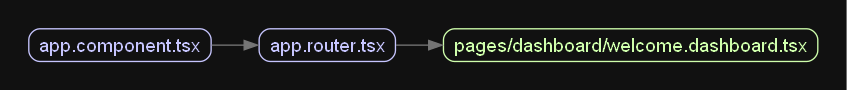
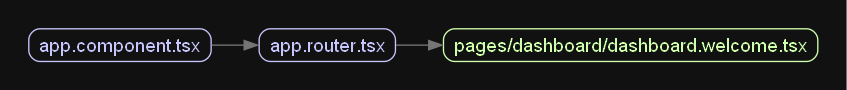
add app layout

Changed region(s): [[0.706, 0.4222, 0.9209, 0.5778]]

diff --git a/apps/react/src/app.router.tsx b/apps/react/src/app.router.tsx
@@ -1,10 +1,13 @@
+import { lazy } from "react";
 import { createBrowserRouter } from "react-router-dom";
-import { Welcome } from "./pages/dashboard/welcome.dashboard";
+import { Layout } from "./app.layout";
+//import Welcome from "./pages/dashboard/dashboard.welcome";
+const Welcome = lazy(() => import('./pages/dashboard/dashboard.welcome'));
 
 const routes = [
   {
     path: '/',
-    element: <Welcome />
+    element: <Layout module="dashboard" component={Welcome} />
   }
 ];
 

diff --git a/apps/react/src/app.layout.tsx b/apps/react/src/app.layout.tsx
@@ -1,0 +1,14 @@
+import { FC, Suspense } from "react";
+import { ContextProps } from "./types";
+
+interface IProps extends ContextProps {
+  component: FC<ContextProps>;
+}
+
+export function Layout({ component: Component, ...props }: IProps) {
+  return (
+    <Suspense fallback={'...loading'}>
+      <Component {...props} />
+    </Suspense>
+  );
+}

diff --git a/apps/react/src/pages/dashboard/dashboard.welcome.tsx b/apps/react/src/pages/dashboard/dashboard.welcome.tsx
@@ -1,0 +1,10 @@
+import { ContextProps } from "../../types";
+
+interface IProps extends ContextProps { }
+
+function Welcome(props: IProps) {
+  console.log(props);
+  return <>Welcome</>
+}
+
+export default Welcome;

diff --git a/apps/react/src/types/app.type.ts b/apps/react/src/types/app.type.ts
@@ -1,0 +1,6 @@
+export interface ContextProps {
+  module: string;
+  view?: string;
+  object?: string;
+  action?: string[];
+}

diff --git a/apps/react/src/types/index.ts b/apps/react/src/types/index.ts
@@ -1,0 +1,1 @@
+export * from './app.type';

diff --git a/docs/04_react/02_structure/005_add_app_layout.md b/docs/04_react/02_structure/005_add_app_layout.md
@@ -1,0 +1,76 @@
+# Add App Layout to Your Project
+
+1. **Navigate to the 'src' Directory:**
+
+   - Open your terminal.
+   - Change to the 'src' directory using the `cd` command:
+     ```bash
+     cd path/to/your/project/src
+     ```
+
+2. **Create 'app.layout.tsx':**
+
+   - Inside the 'src' directory, create a file named 'app.layout.tsx':
+
+     ```jsx
+     // src/app.layout.tsx
+     import { FC, Suspense } from 'react';
+     import { ContextProps } from './types';
+
+     interface IProps extends ContextProps {
+       component: FC<ContextProps>;
+     }
+
+     export function Layout({ component: Component, ...props }: IProps) {
+       return (
+         <Suspense fallback={'...loading'}>
+           <Component {...props} />
+         </Suspense>
+       );
+     }
+     ```
+
+3. **Import 'app.layout.tsx' to 'app.router.tsx':**
+
+   - Open the 'app.router.tsx' file.
+   - Import the 'Layout' component from 'app.layout.tsx':
+
+     ```jsx
+     // src/app.router.tsx
+     import { lazy } from 'react';
+     import { createBrowserRouter } from 'react-router-dom';
+     import { Layout } from './app.layout';
+     import Welcome from './pages/dashboard/dashboard.welcome';
+
+     const routes = [
+       {
+         path: '/',
+         element: <Welcome />,
+       },
+     ];
+
+     export const router = createBrowserRouter(routes);
+     ```
+
+4. **Update 'app.router.tsx' to Use 'Layout' Component:**
+
+   - In 'app.router.tsx', comment out the import of 'Welcome' and replace the 'element' property with the 'Layout' component:
+
+     ```jsx
+     // src/app.router.tsx
+     import { lazy } from 'react';
+     import { createBrowserRouter } from 'react-router-dom';
+     import { Layout } from './app.layout';
+     const Welcome = lazy(() => import('./pages/dashboard/dashboard.welcome'));
+
+     const routes = [
+       {
+         path: '/',
+         element: <Layout module='dashboard' component={Welcome} />,
+       },
+     ];
+
+     export const router = createBrowserRouter(routes);
+     ```
+
+These steps guide you through adding an 'App Layout' component to your project, introducing a suspense wrapper for page loading, and updating the router to use the new layout. Adjust the file paths and names as necessary for your project structure.

diff --git a/docs/04_react/02_structure/002_add_welcome_page.md b/docs/04_react/02_structure/002_add_welcome_page.md
@@ -15,25 +15,31 @@
      mkdir dashboard
      ```
 
-3. **Create 'welcome.dashboard.tsx' File:**
+3. **Create 'dashboard.welcome.tsx' File:**
 
-   - Inside the 'dashboard' folder, create a file named 'welcome.dashboard.tsx':
+   - Inside the 'dashboard' folder, create a file named 'dashboard.welcome.tsx':
+
      ```tsx
-     // src/pages/dashboard/welcome.dashboard.tsx
-     export function Welcome() {
+     // src/pages/dashboard/dashboard.welcome.tsx
+     function Welcome() {
        return <>Welcome</>;
      }
+
+     export default Welcome;
      ```
 
-4. **Import 'welcome.dashboard.tsx' in 'app.router.tsx':**
+   **Important Note:**
+   When employing lazy loading for pages, make sure to use the `export default` syntax for the page components.
+
+4. **Import 'dashboard.welcome.tsx' in 'app.router.tsx':**
 
    - Open the 'app.router.tsx' file.
-   - Import the 'Welcome' component from the 'welcome.dashboard.tsx' file:
+   - Import the 'Welcome' component from the 'dashboard.welcome.tsx' file:
 
      ```tsx
      // src/app.router.tsx
      import { createBrowserRouter } from 'react-router-dom';
-     import { Welcome } from './pages/dashboard/welcome.dashboard';
+     import Welcome from './pages/dashboard/dashboard.welcome';
 
      const routes = [
        {
@@ -52,7 +58,7 @@
      ```tsx
      // src/app.router.tsx
      import { createBrowserRouter } from 'react-router-dom';
-     import { Welcome } from './pages/dashboard/welcome.dashboard';
+     import Welcome from './pages/dashboard/dashboard.welcome';
 
      const routes = [
        {

diff --git a/docs/04_react/02_structure/004_add_app_type.md b/docs/04_react/02_structure/004_add_app_type.md
@@ -1,0 +1,50 @@
+# Add Types
+
+1. **Navigate to the 'src' Directory:**
+
+   - Open your terminal.
+   - Change to the 'src' directory using the `cd` command:
+     ```bash
+     cd path/to/your/project/src
+     ```
+
+2. **Create 'types' Folder:**
+
+   - Inside the 'src' directory, create a new folder named 'types':
+     ```bash
+     mkdir types
+     ```
+
+3. **Create 'index.ts' and 'app.type.ts' Files:**
+
+   - Inside the 'types' folder, create two files: 'index.ts' and 'app.type.ts':
+     ```bash
+     touch types/index.ts types/app.type.ts
+     ```
+
+4. **Define 'ContextProps' Interface in 'app.type.ts':**
+
+   - Open 'app.type.ts' and define the 'ContextProps' interface:
+     ```typescript
+     // src/types/app.type.ts
+     export interface ContextProps {
+       module: string;
+       view?: string;
+       object?: string;
+       action?: string[];
+     }
+     ```
+
+5. **Export 'app.type.ts' in 'index.ts':**
+
+   - Open 'index.ts' inside the 'types' folder and export the 'ContextProps' interface:
+     ```typescript
+     // src/types/index.ts
+     export * from './app.type';
+     ```
+
+6. **Enhance Project Organization:**
+   - Creating a 'types' folder helps abstract project types, enhancing organization as the project grows.
+   - This step sets the groundwork for a clean and organized project structure.
+
+Adjust the file paths and names as necessary for your project structure. This addition improves code organization by separating types into a dedicated 'types' folder.

diff --git a/docs/04_react/02_structure/007_commit_add_layout.md b/docs/04_react/02_structure/007_commit_add_layout.md
@@ -1,0 +1,24 @@
+# Commit Add Layout
+
+1. **Run Development Server:**
+
+   - Open your terminal.
+   - Run the following command to start the development server:
+     ```bash
+     npm run dev
+     ```
+
+2. **Check for Issues:**
+
+   - Open your browser and navigate to your project (usually [http://localhost:3000](http://localhost:3000)).
+   - Verify that everything looks good and functions as expected.
+   - Ensure that the layout changes do not introduce any issues.
+
+3. **Commit Changes to Git:**
+   - If everything is satisfactory, commit the changes to your Git repository.
+     ```bash
+     git add .
+     git commit -m "Add layout component"
+     ```
+
+These steps ensure that you've thoroughly checked the changes and that the application runs smoothly before committing the layout addition to your Git repository. Adjust the commit message based on your specific changes or preferences.

diff --git a/docs/04_react/02_structure/003_generate_app_graph.md b/docs/04_react/02_structure/003_generate_app_graph.md
@@ -35,7 +35,7 @@ This command generates a visual graph of project dependencies using 'madge' and 
 ```plaintext
 app.component.tsx
 |-- app.router.tsx
-|   |-- pages/dashboard/welcome.dashboard.tsx
+|   |-- pages/dashboard/dashboard.welcome.tsx
 ```
 
-![title](images/app.graph_1.png)
+![app_graph](images/app.graph_1.png)

diff --git a/docs/04_react/02_structure/006_re-generate_app_graph.md b/docs/04_react/02_structure/006_re-generate_app_graph.md
@@ -1,0 +1,12 @@
+# Regenerate App Graph
+
+Now that we have wrapped the pages in the suspense layout, the updated project graph looks like this:
+
+```plaintext
+app.component.tsx
+|-- app.router.tsx
+|   |-- app.layout.tsx
+|   |   |-- pages/dashboard/dashboard.welcome.tsx
+
+![app_graph](images/app.graph_2.png)
+```
